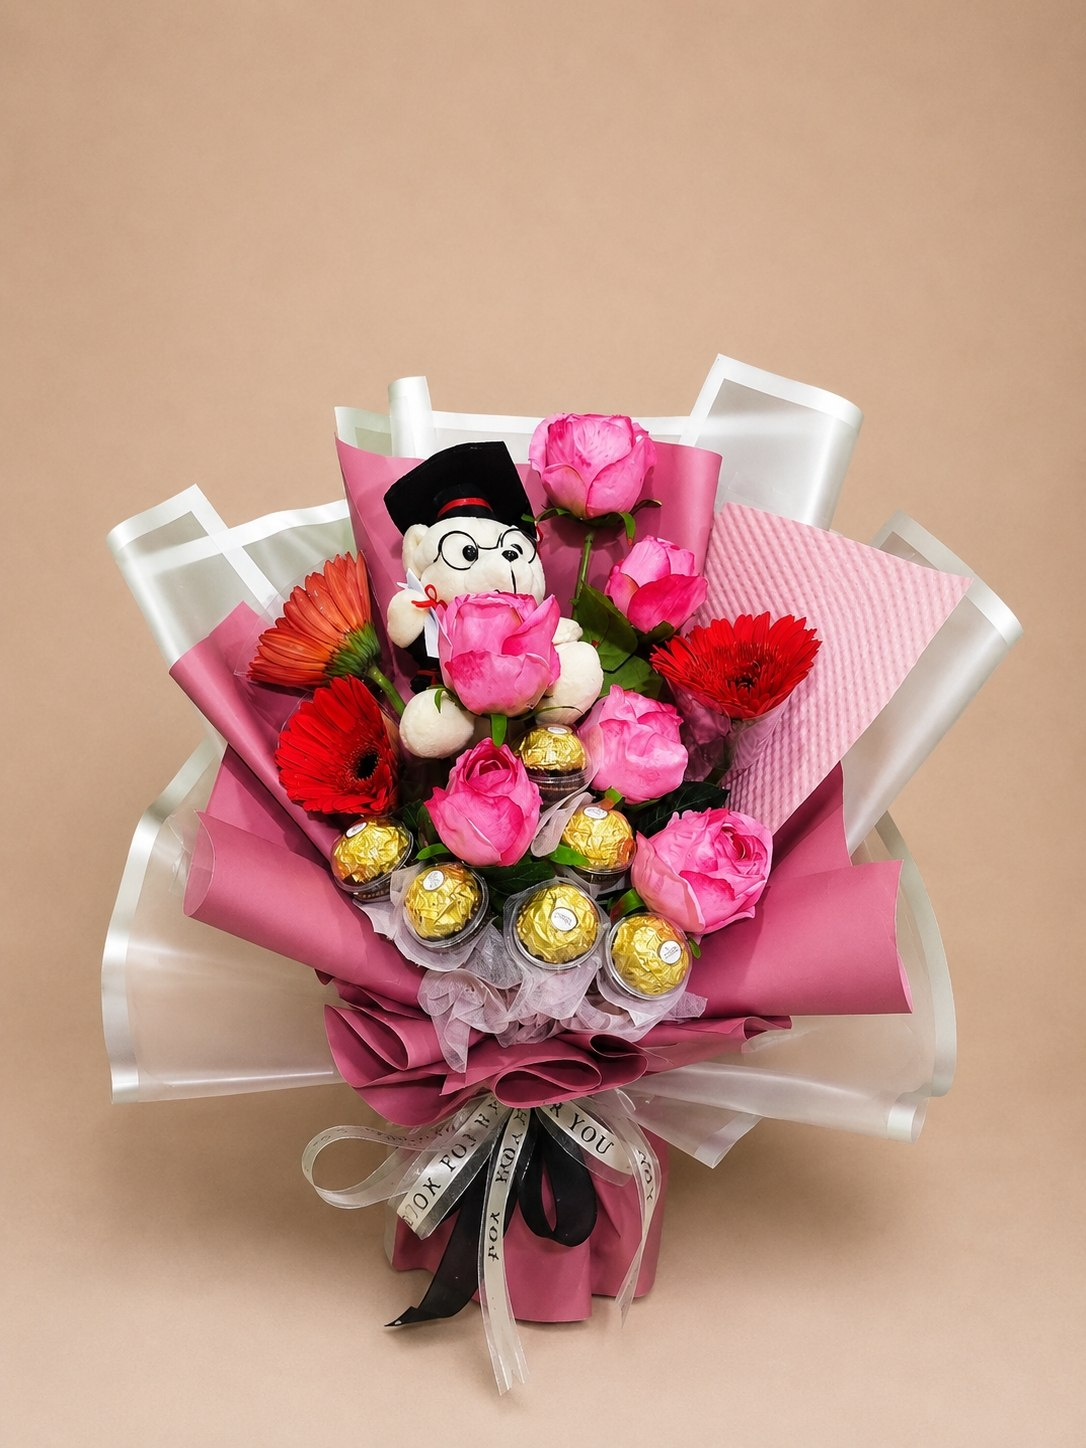
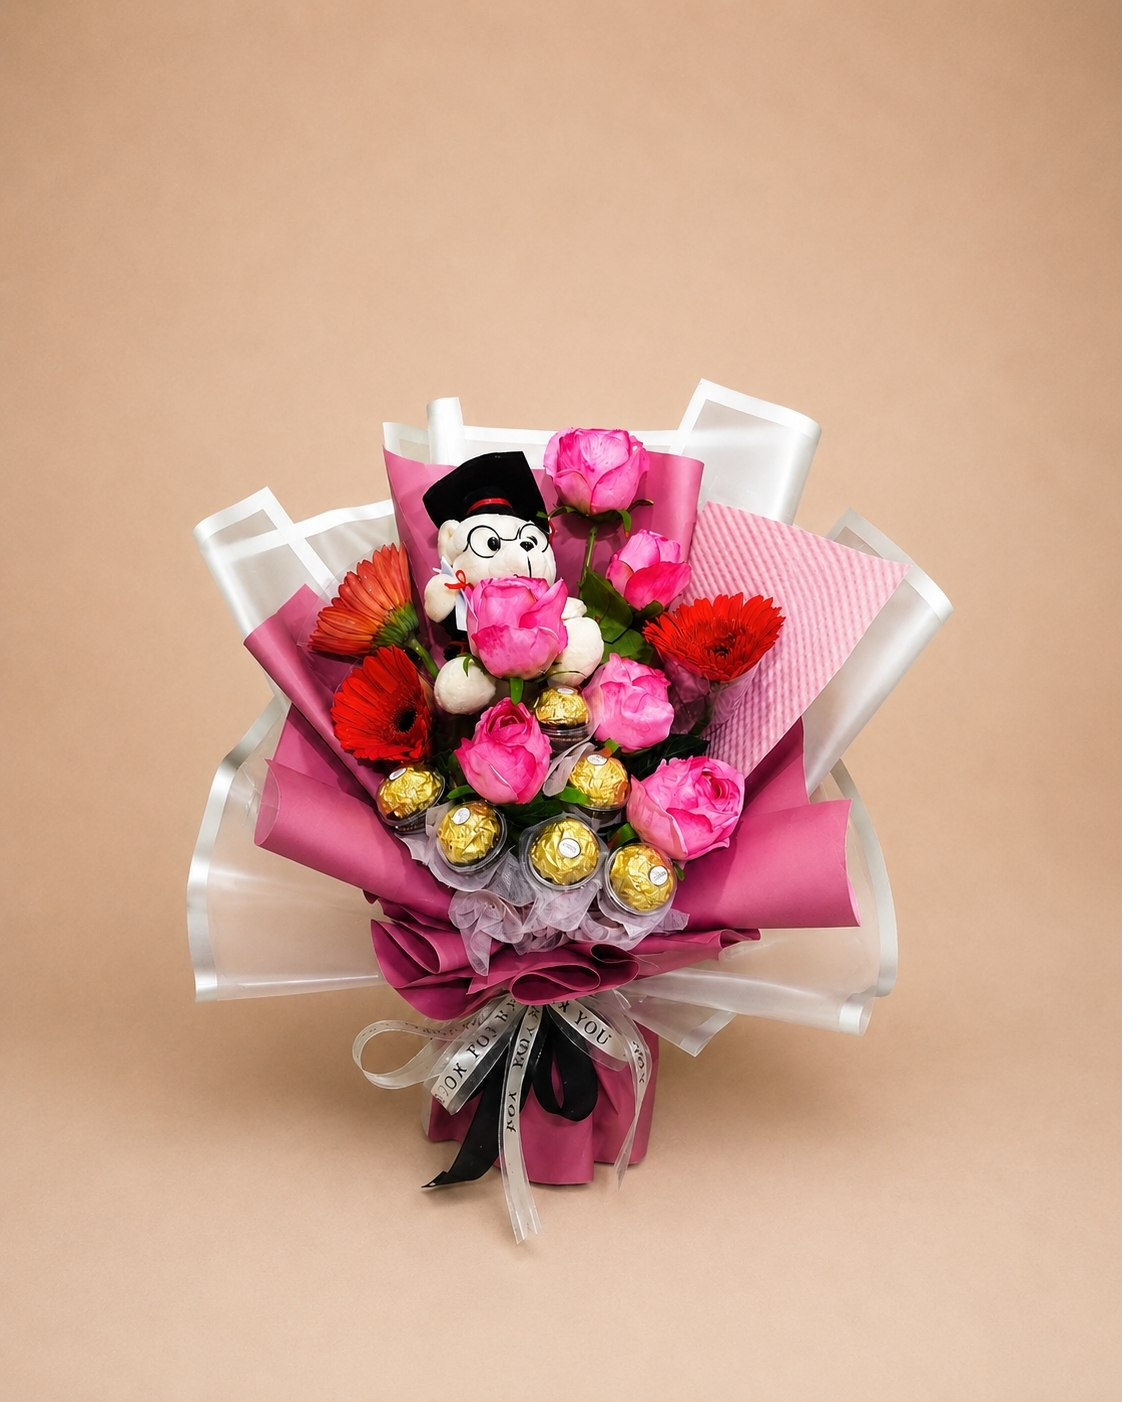
delete duplicate images

diff --git a/products.js b/products.js
@@ -88,11 +88,5 @@ const PRODUCTS = [
     price: 72,
     image: "images/bouquet-13.jpg",
     description: "Orange ranunculus and yellow spray roses with fresh greenery."
-  },
-  {
-    name: "Morning Citrus",
-    price: 72,
-    image: "images/bouquet-14.jpg",
-    description: "Orange ranunculus and yellow spray roses with fresh greenery."
   }
 ];